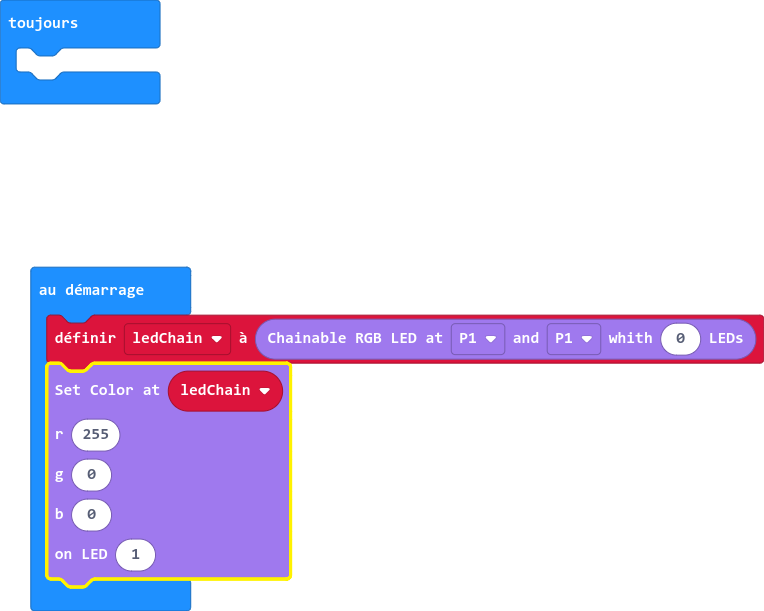
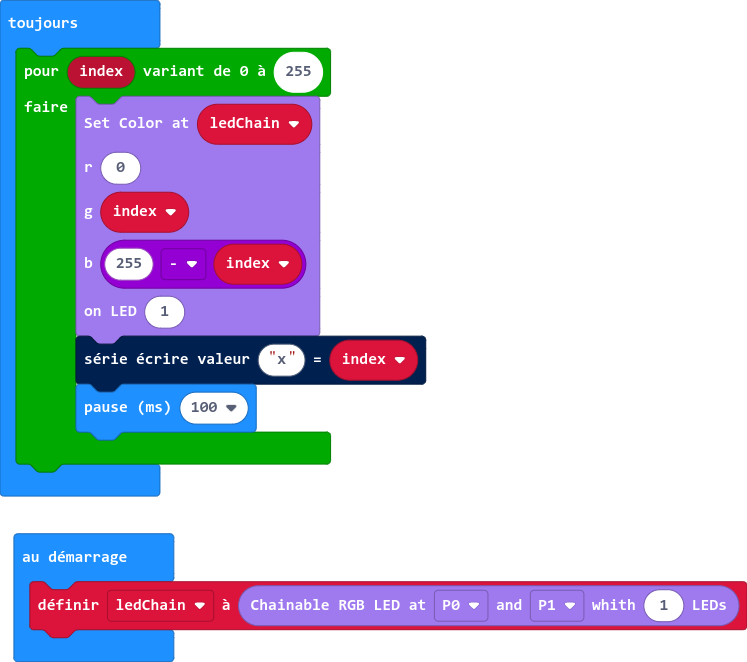
P9813 first operationnal update

diff --git a/plugins/P9813.ts b/plugins/P9813.ts
@@ -15,24 +15,6 @@ namespace grove {
                 this.Reset();
             }
 
-            /* Set color to a chainable RGB LED-P9813(SKU#104020048)
-             * @param r value of number
-             * @param g value of number
-             * @param b value of number 
-             * @param n value of number
-             */
-            //% group="P9813"
-            //% blockId=grove_p9813_set_color block="Set Color at %ledChain r %r g %g b %b on LED %num"
-            //% r.min = 0 r.max = 0 r.defl = 0
-            //% g.min = 0 g.max = 0 g.defl = 0
-            //% b.min = 0 b.max = 0 b.defl = 0
-            //% n.min = 1 n.defl = 1
-            //% weight=3
-            public setColor(r: number, g: number, b: number, num:number) {
-                //return this;
-                //return true;
-            }
-
             private static CalcCRC8(data: any[]): number {
                 let crc8 = 0xFF;
 
@@ -104,7 +86,7 @@ namespace grove {
 
 
             public WriteBit(bit:number){
-                this._PinData;
+                pins.digitalWritePin(this._PinData, bit);
             }
 
 
@@ -121,6 +103,19 @@ namespace grove {
                 }
             }
 
+            public Write(){
+                //Begin data frame 4 bytes
+                this.Frame();
+                //4 bytes for each led(checksum, blue, green, red)
+                for (let i = 0; i< this._NumLeds; i++){
+                    this.WriteColor(
+                        this.buf[i * 3], this.buf[i * 3 + 1], this.buf[i * 3 + 2])
+                }                        
+
+                //End data frame 4 bytes
+                this.Frame();
+            }
+
             public WriteColor(r: number, g:number, b:number){
                 //Send a checksum byte with the format "1 1 ~B7 ~B6 ~G7 ~G6 ~R7 ~R6"
                 //The checksum colour bits should bitwise NOT the data colour bits
@@ -135,6 +130,25 @@ namespace grove {
                 this.WriteByte(r);
                 this.WriteByte(g);
                 this.WriteByte(b);
+            }
+
+            /* Set color to a chainable RGB LED-P9813(SKU#104020048)
+            * @param r value of number
+            * @param g value of number
+            * @param b value of number 
+            * @param n value of number
+            */
+            //% group="P9813"
+            //% blockId=grove_p9813_set_color block="Set Color at %ledChain r %r g %g b %b on LED %num"
+            //% r.min = 0 r.max = 0 r.defl = 0
+            //% g.min = 0 g.max = 0 g.defl = 0
+            //% b.min = 0 b.max = 0 b.defl = 0
+            //% n.min = 1 n.defl = 1
+            //% weight=3
+            public setColor(r: number, g: number, b: number, num: number) {
+                //serial.writeNumbers([r,g,b,num]);
+                serial.writeValue('g',g);
+                this.WriteColor(r, g, b);
             }
         }
     }

diff --git a/main.ts b/main.ts
@@ -1,5 +1,13 @@
-let ledChain = grove.createChain(DigitalPin.P1, DigitalPin.P1, 0)
-ledChain.setColor(255, 0, 0, 1)
-basic.forever(function on_forever() {
-    
+let ledChain = grove.createChain(DigitalPin.P0, DigitalPin.P1, 1)
+basic.forever(function () {
+    for (let index = 0; index <= 255; index++) {
+        ledChain.setColor(
+        0,
+        index,
+        255 - index,
+        1
+        )
+        serial.writeValue("x", index)
+        basic.pause(100)
+    }
 })

diff --git a/main.py b/main.py
@@ -1,6 +1,8 @@
-ledChain = grove.create_chain(DigitalPin.P1, DigitalPin.P1, 0)
-ledChain.set_color(255, 0, 0, 1)
+ledChain = grove.create_chain(DigitalPin.P0, DigitalPin.P0, 1)
 
 def on_forever():
-    pass
+    for index in range(256):
+        ledChain.set_color(0, index, 255 - index, 1)
+        serial.write_value("x", index)
+        basic.pause(100)
 basic.forever(on_forever)
